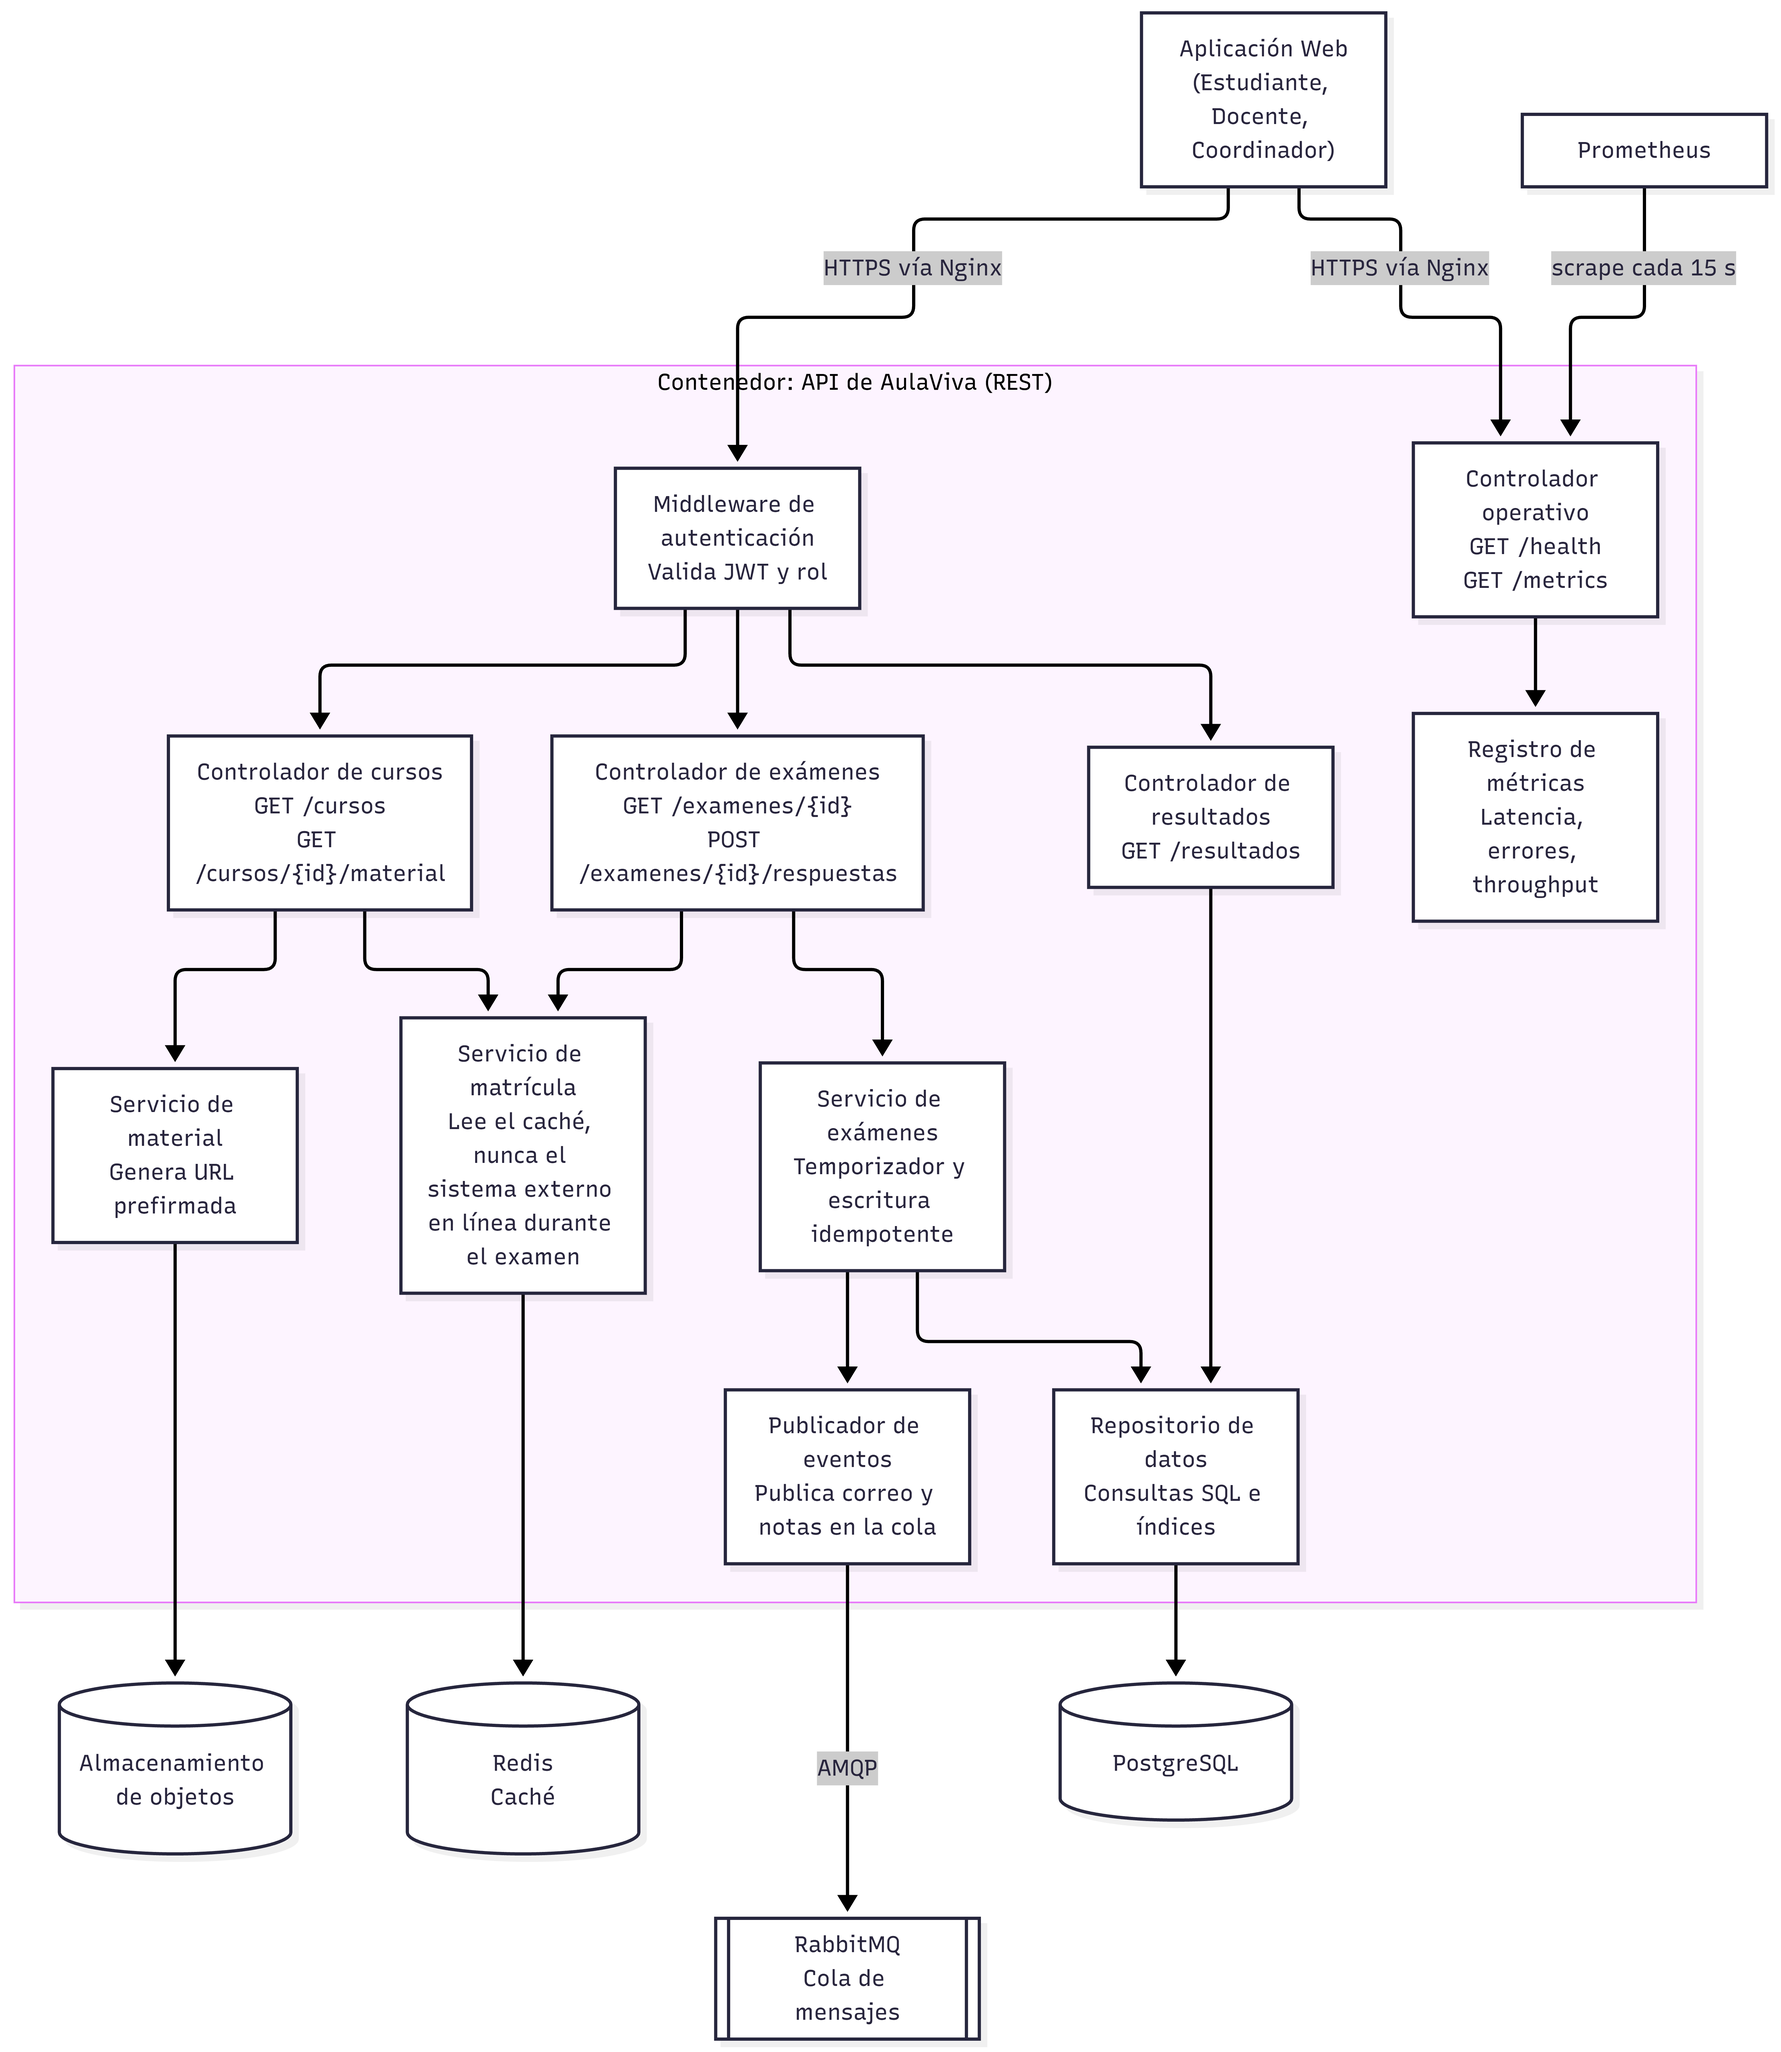
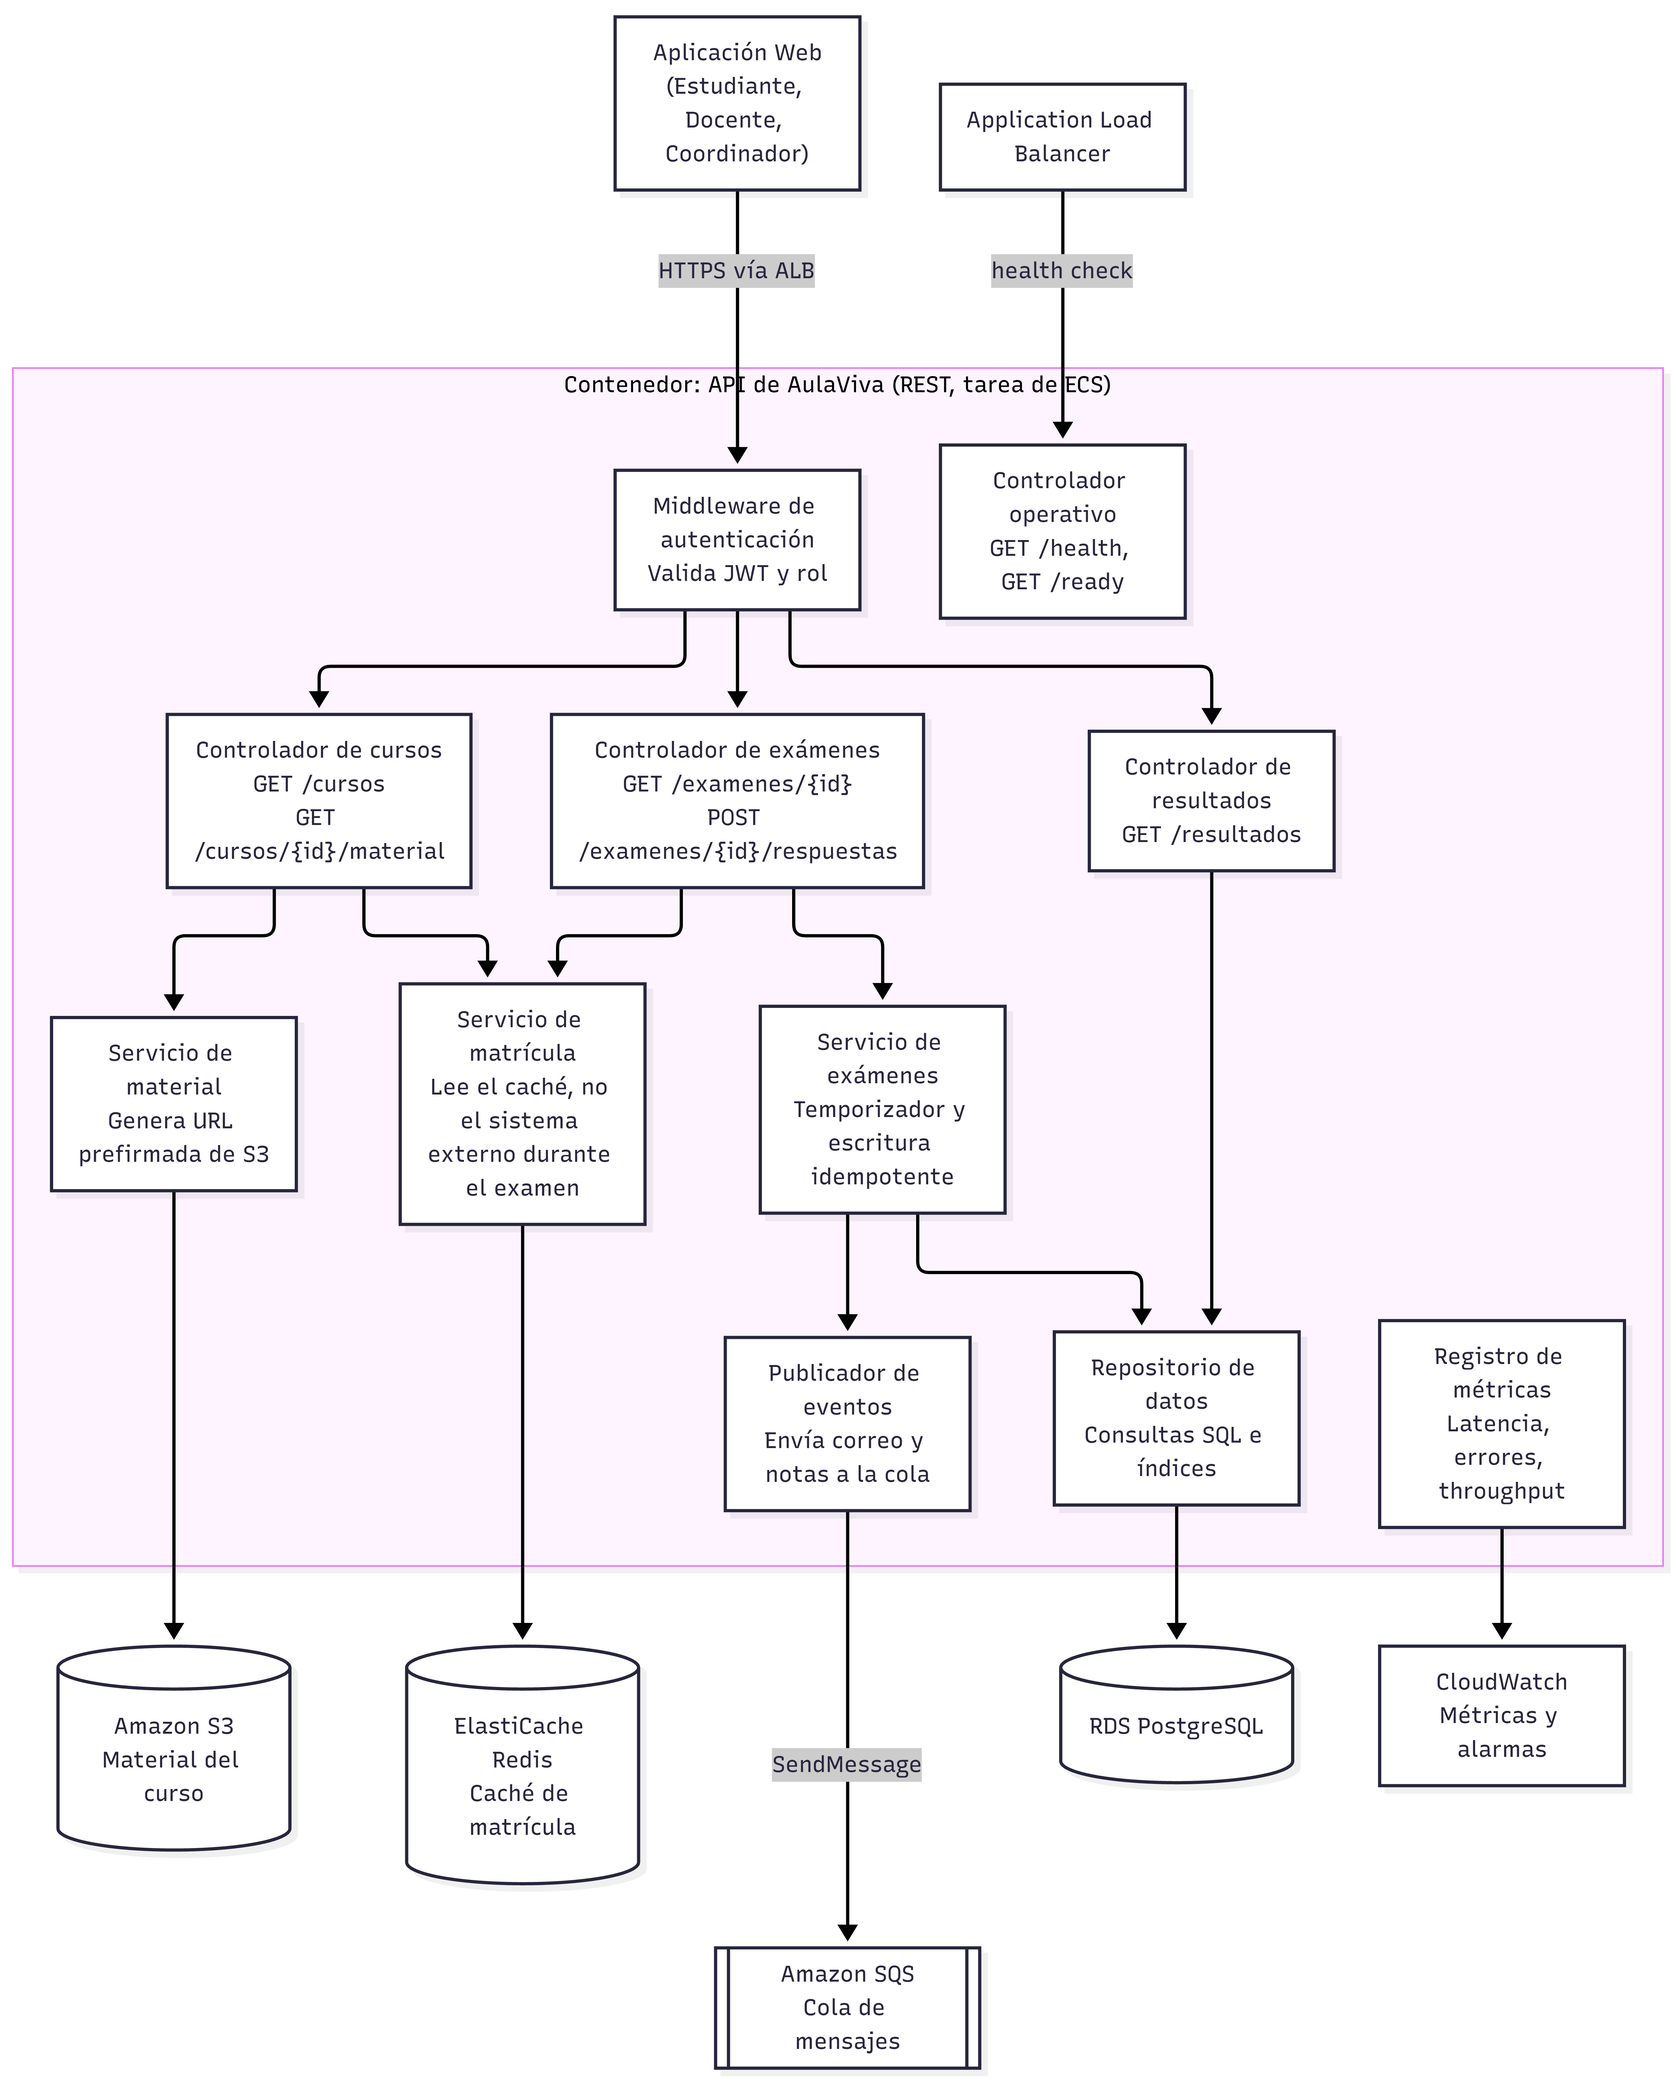
docs: renombra ADR y compose a la arquitectura AWS, renombra compose a docker-compose.local.yml

diff --git a/docs/pregunta_problema.md b/docs/pregunta_problema.md
@@ -11,23 +11,25 @@ temporizador falla al intentar comunicarse con los servicios externos.
 
 **Diseño asíncrono (arquitectura elegida):** no pasa nada crítico.
 
-- **Sistema académico:** la matrícula se pre-carga en Redis antes de la franja
-  de examen, con TTL [definir]. Durante el examen no se consulta en línea. Las
-  notas se envían de vuelta en segundo plano cuando el sistema externo vuelva
-  a estar disponible.
-- **Servicio de correo:** la notificación se guarda en una cola, un worker la
-  procesa y se reintenta con espera creciente. Los mensajes que agotan los
-  reintentos pasan a una cola de fallidos. El estudiante termina y guarda su
-  examen sin interrupciones.
+- **Sistema académico:** la matrícula se pre-carga en ElastiCache (Redis) antes
+  de la franja de examen, con TTL [definir]. Durante el examen no se consulta
+  en línea. Las notas se envían de vuelta en segundo plano cuando el sistema
+  externo vuelva a estar disponible.
+- **Servicio de correo:** la notificación se publica en una cola de Amazon SQS.
+  El trabajador de notificación la consume y, si el correo falla, el mensaje
+  vuelve a la cola y se reintenta; tras agotar los reintentos pasa a una cola
+  de mensajes fallidos. El estudiante termina y guarda su examen sin
+  interrupciones.
 
 **Qué es síncrono y qué asíncrono:**
 
 | Síncrono (el estudiante espera) | Asíncrono (en segundo plano) |
 |---|---|
-| Guardar la respuesta en PostgreSQL | Correo de confirmación y resultados |
+| Guardar la respuesta en RDS PostgreSQL | Correo de confirmación y resultados |
 | Validar sesión (JWT) y matrícula en caché | Sincronización de notas con el sistema académico |
 
-Ver [ADR-0004](adr/0004-integraciones-asincronas-con-cola.md).
+Ver [ADR-0004](adr/0004-integraciones-asincronas-con-cola.md) y
+[ADR-0005](adr/0005-rabbitmq-como-cola-de-mensajes.md).
 
 ## 2. ¿El material pesado va en la base de datos o en almacenamiento de objetos? ¿Por qué?
 

diff --git a/docs/arquitectura/c4_nivel3.md b/docs/arquitectura/c4_nivel3.md
@@ -1,14 +1,15 @@
 # C4 Nivel 3: Componentes de la API
 
-Contenedor detallado: **API de AulaViva** (réplicas idénticas detrás de Nginx).
+Contenedor detallado: **API de AulaViva** (tareas idénticas de ECS Fargate
+detrás de un Application Load Balancer).
 
 ## Responsabilidades
 
 | Componente | Responsabilidad | Decisión relacionada |
 |---|---|---|
-| Middleware de autenticación | Valida JWT (expiración ≤ 1 h) y rol | NFR de seguridad |
-| Servicio de matrícula | Lee la matrícula pre-cargada en Redis | ADR-0004 |
-| Servicio de exámenes | Escribe la respuesta con `ON CONFLICT DO NOTHING` y confirma solo tras persistir | ADR-0003 |
-| Servicio de material | Devuelve URL prefirmada, el archivo no pasa por la API | ADR-0001 |
-| Publicador de eventos | Publica en RabbitMQ correo y sincronización de notas, no bloquea al estudiante | ADR-0004, ADR-0005 |
-| Controlador operativo | `/health` verifica BD, Redis y RabbitMQ; `/metrics` expone Prometheus | Observabilidad |
+| Middleware de autenticación | Valida JWT (expiración ≤ 1 h) y rol | ADR-0009 |
+| Servicio de matrícula | Lee la matrícula pre-cargada en ElastiCache | ADR-0004 |
+| Servicio de exámenes | Escribe con `ON CONFLICT DO NOTHING` y confirma solo tras persistir | ADR-0003 |
+| Servicio de material | Devuelve URL prefirmada de S3; el archivo no pasa por la API | ADR-0001 |
+| Publicador de eventos | Publica en SQS correo y sincronización de notas | ADR-0004, ADR-0005 |
+| Controlador operativo | `/health` (el ALB, sin tocar la BD) y `/ready` (diagnóstico, con BD) | ADR-0007 |

diff --git a/docs/arquitectura/despliegue.md b/docs/arquitectura/despliegue.md
@@ -1,13 +1,14 @@
-# Diagrama de despliegue
+# Diagrama de despliegue (AWS)
 
 
 ## Reglas de red
 
-| Red | Qué contiene | Acceso externo |
+| Capa | Qué contiene | Entrada permitida |
 |---|---|---|
-| `red_publica` | Nginx, aplicación web | Sí, solo puertos 80 y 443 |
-| `red_aplicacion` | API, trabajador, Redis, RabbitMQ | No |
-| `red_datos` (`internal: true`) | PostgreSQL, almacenamiento de objetos | No |
-| `red_observabilidad` | Prometheus, Grafana | Solo Grafana, con login |
+| ALB (subred pública) | Punto único de entrada | Internet, solo puerto 443 |
+| Tareas ECS (subred pública, SG propio) | API y trabajador | Solo desde el Security Group del ALB |
+| RDS y ElastiCache (subred privada) | Datos y caché | Solo desde el Security Group de las tareas |
 
-La BD solo es alcanzable desde la API y el trabajador. Eso es lo que el enunciado pide demostrar en el requisito de red segmentada.
+Las tareas van en subred pública con IP pública para **evitar el NAT Gateway**
+(se cobra por hora y consume créditos). Su Security Group no admite tráfico de
+internet, solo el del ALB. La base de datos no tiene ruta a internet.
